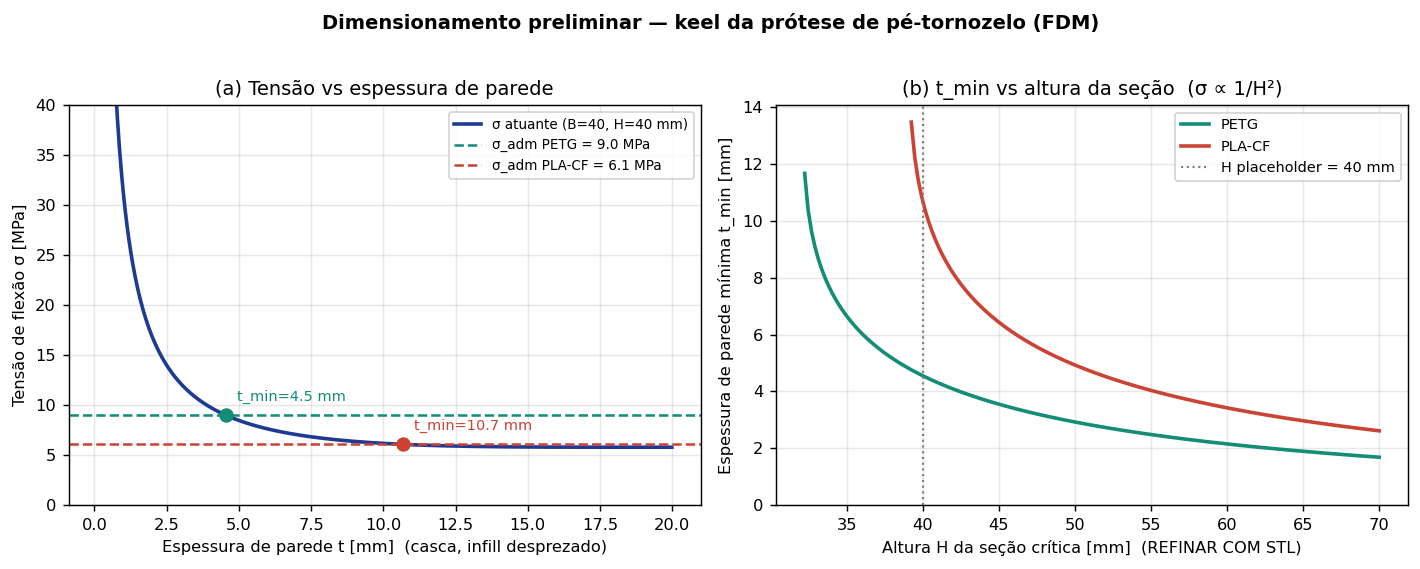
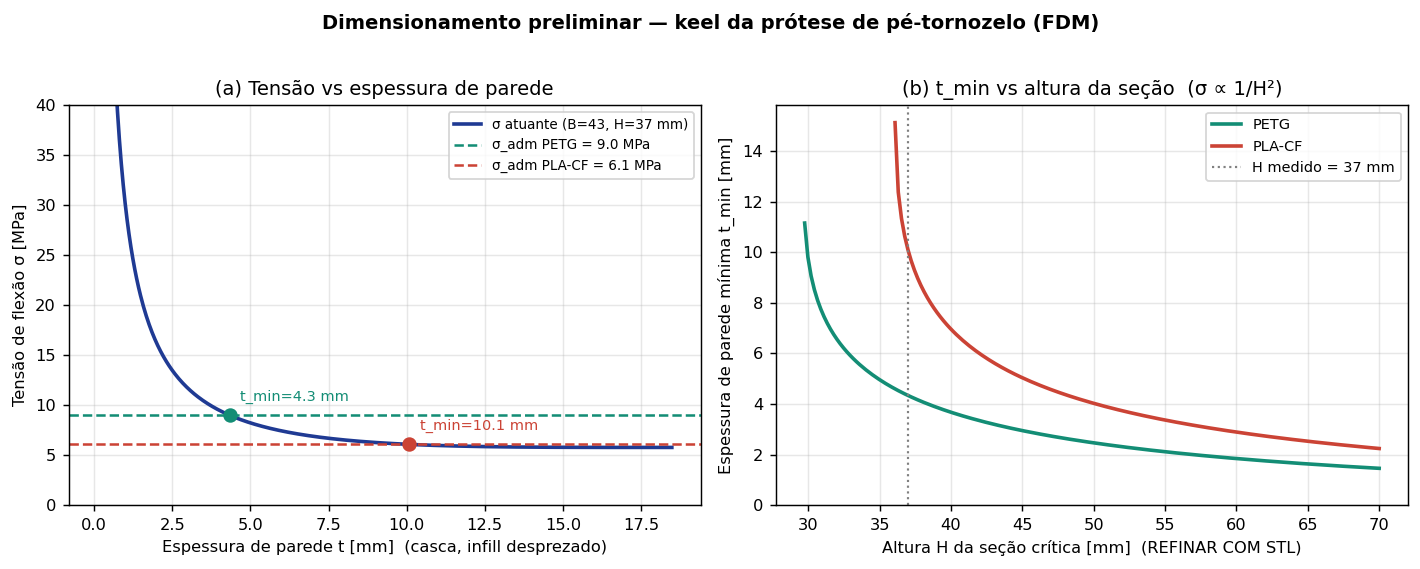
protese-tornozelo: trava design-base A (#293133), versiona STLs e re-roda dimensionamento com geometria medida
- Decisao A (Make3D Printables #293133) registrada em README, ROADMAP, decisao_design_base e VOTACAO
- STLs de A versionados em cad/A_make3d_293133/ + PDF em refs/
- dimensionamento.py: geometria medida no InnerFoot.stl (B=43, H=37, L=55) substitui placeholder; SCALE explicito
- RELATORIO 5.3 atualizado: PETG t_parede ~4,3mm, FS 2,5

diff --git a/testes/dimensionamento.py b/testes/dimensionamento.py
@@ -80,10 +80,22 @@ P          = BW_KG * G * GRF_FACTOR          # carga de projeto [N]  ≈ 1030 N
 FS_BASE  = 2.5        # base (faixa de projeto 2–3)
 FS_RANGE = (2.0, 3.0)
 
-# --- Geometria da seção crítica do keel  [PLACEHOLDER — REFINAR COM STL] ----
-B = 40.0   # largura da seção [mm]                 (REFINAR COM STL)
-H = 40.0   # altura da seção na região crítica [mm](REFINAR COM STL)
-L = 60.0   # braço de momento heel-strike → seção crítica [mm] (REFINAR COM STL)
+# --- Geometria da seção crítica do keel  [MEDIDO no STL — design-base A] -----
+# Design-base TRAVADO: A = Make3D "Prosthetic Foot Prototype" (Printables #293133).
+# Keel estrutural = InnerFoot.stl (cad/A_make3d_293133/). Medições (parse direto
+# da malha binária; varredura de seção a cada 10 mm ao longo do comprimento):
+#   bounding box nativa do keel:  L_total = 111.6 ,  Y = 46.0 ,  Z = 40.2  mm
+#   altura Z ~ 40 mm quase constante ao longo do pé; largura Y afina do
+#   meio-pé (~45) para o antepé (~15). Seção crítica de FLEXÃO sob heel-strike
+#   ~ região do tornozelo (X ~ 50 mm do calcanhar): B(Y) ~ 43 , H(Z) ~ 37 mm.
+# ESCALA: o pé do modelo (FootRubber = 210 mm) é menor que o alvo 26-27 cm.
+#   Escalar p/ alvo exige SCALE ~ 1.26 — e ESCALAR SÓ AJUDA (σ ∝ 1/SCALE²,
+#   pois L cresce ∝ s mas o módulo de seção ∝ s³). Logo SCALE=1.0 (nativo) é o
+#   caso CONSERVADOR/pior: se PETG passa aqui, passa também escalado ao alvo.
+SCALE = 1.0   # 1.0 = escala nativa do STL (pé ~21 cm, pior caso de tensão)
+B = 43.0 * SCALE   # largura da seção crítica [mm]  (medido no InnerFoot.stl)
+H = 37.0 * SCALE   # altura da seção crítica  [mm]  (medido no InnerFoot.stl)
+L = 55.0 * SCALE   # braço heel-strike → tornozelo [mm] (medido: ~50-55 mm)
 
 # --- Materiais candidatos (valores de IMPRESSÃO FDM, plano XY) --------------
 # uts_xy [MPa], E [MPa], k_z [-], comp [MPa] (compressão, p/ bearing do furo)
@@ -137,8 +149,8 @@ print(" DIMENSIONAMENTO ESTRUTURAL PRELIMINAR — prótese pé-tornozelo (FDM)")
 print("=" * 74)
 print(f"  Carga de projeto P      = {P:7.1f} N   "
       f"(= {GRF_FACTOR:.1f}×BW de {BW_KG:.0f} kg) [fonte 1]")
-print(f"  Momento fletor   M = P·L = {M:7.0f} N·mm  (L = {L:.0f} mm)  [PLACEHOLDER]")
-print(f"  Seção crítica (placeholder): B = {B:.0f} mm , H = {H:.0f} mm")
+print(f"  Momento fletor   M = P·L = {M:7.0f} N·mm  (L = {L:.0f} mm)  [MEDIDO, SCALE={SCALE}]")
+print(f"  Seção crítica (medida no InnerFoot.stl): B = {B:.0f} mm , H = {H:.0f} mm")
 print(f"  Fator de segurança base FS = {FS_BASE:.1f}  (faixa {FS_RANGE[0]:.0f}–{FS_RANGE[1]:.0f})")
 
 # Sanity-check: tensão na seção SÓLIDA equivalente vs FEA de referência [6]
@@ -237,7 +249,7 @@ for name in MATERIALS:
         tg = np.linspace(0.1, min(B, h) / 2.0 - 0.01, 400)
         tmins.append(t_min_for(sa, h, B, M, tg))
     ax2.plot(H_grid, tmins, color=colors[name], lw=2, label=name)
-ax2.axvline(H, color="gray", ls=":", lw=1.2, label=f"H placeholder = {H:.0f} mm")
+ax2.axvline(H, color="gray", ls=":", lw=1.2, label=f"H medido = {H:.0f} mm")
 ax2.set_xlabel("Altura H da seção crítica [mm]  (REFINAR COM STL)")
 ax2.set_ylabel("Espessura de parede mínima t_min [mm]")
 ax2.set_title("(b) t_min vs altura da seção  (σ ∝ 1/H²)")

diff --git a/RELATORIO.md b/RELATORIO.md
@@ -106,20 +106,23 @@ PLA reforçado com fibra de carbono picada parece mais rígido (E ≈ 3 GPa vs 1
 ### 5.3 Dimensionamento estrutural preliminar
 
 > Script reproduzível: `testes/dimensionamento.py` — gráficos em `testes/dimensionamento_flexao.png` e `testes/dimensionamento_materiais.png`.
-> ⚠️ Geometria da seção marcada `[PLACEHOLDER — REFINAR COM STL]` após escolha e download do design-base.
+> Geometria **medida** no STL do design-base A (Make3D #293133), keel = `InnerFoot.stl`.
 
-**Parâmetros de entrada:**
+**Parâmetros de entrada (medidos no STL de A):**
 - Carga de projeto: P = 1030 N (1,5 × 70 kg × 9,81 m/s²)
-- Momento fletor na seção crítica: M = P × L = 1030 × 60 = 61 800 N·mm (L = 60 mm — placeholder)
-- Seção crítica: B = 40 mm, H = 40 mm (placeholder)
+- Seção crítica medida (região do tornozelo, ~55 mm do calcanhar): B = 43 mm, H = 37 mm
+- Momento fletor na seção crítica: M = P × L = 1030 × 55 ≈ 56 700 N·mm (L = 55 mm medido)
 - Modelo: viga em flexão, seção retangular oca (casca); infill desprezado (conservador — a favor da segurança)
+- **Escala:** keel nativo do modelo (pé ~21 cm) é menor que o alvo 26–27 cm. Os cálculos usam a escala **nativa (pior caso)**; escalar ao alvo (×~1,26) só aumenta a margem (σ ∝ 1/escala², pois o módulo de seção cresce ∝ escala³ enquanto o braço cresce ∝ escala).
 
 **Resultados (FS = 2,5):**
 
 | Material | UTS_xy [MPa] | k_z [-] | σ_adm [MPa] | t_min casca [mm] |
 |---|---|---|---|---|
-| PETG | 45 | 0,50 | 9,0 | 4,6 |
-| PLA-CF | 38 | 0,40 | 6,1 | 10,7 |
+| PETG | 45 | 0,50 | 9,0 | 4,3 |
+| PLA-CF | 38 | 0,40 | 6,1 | 10,1 |
+
+Sanity-check: tensão na seção sólida equivalente = 5,8 MPa — mesma ordem do FEA de literatura (~15 MPa @150% PC [ResearchGate 318989655]), com folga.
 
 **Articulação — eixo M8 8.8 (junta dupla, 2 planos de cisalhamento):**
 - τ atuante = 14,1 MPa → FS real do pino ≈ **34×** — superdimensionado, não é o elo fraco

diff --git a/refs/decisao_design_base.md b/refs/decisao_design_base.md
@@ -94,3 +94,16 @@ Usar só se A e D forem inviáveis. Exige redesign do mecanismo de articulação
 ---
 
 > *Decisão registrada em 06/06/2026.*
+
+---
+
+## ✅ VEREDITO (08/06/2026)
+
+**Vencedor: A — Make3D / Printables #293133.** Decidido por votação do grupo.
+Razão: maior score (4,2), articulação single-axis direta e conector de pylon já
+integrado — menor trabalho de CAD no prazo apertado.
+
+**Status pós-download:**
+- STLs baixados e versionados em `cad/A_make3d_293133/` (InnerFoot, FootRubber, TopJoint, Insert, RubberCube) + PDF em `refs/A_make3d_293133/`.
+- Keel estrutural = `InnerFoot.stl`. Seção crítica medida (B=43, H=37, L=55 mm) → `dimensionamento.py` re-rodado: **PETG t_parede ≈ 4,3 mm** com FS 2,5.
+- ⚠ **Ressalvas a tratar no CAD:** (1) pacote de A **não traz STEP/F3D** — só STL; remix exige edição de malha (Blender) ou baixar o F3D no Printables. (2) **Escala:** pé do modelo ~21 cm < alvo 26–27 cm → escalar ~1,26× (favorável à estrutura).

diff --git a/ROADMAP.md b/ROADMAP.md
@@ -188,8 +188,8 @@ Decisão design-base (06/06)
 | Fase | Status | Observação |
 |------|--------|------------|
 | Fundação técnica (biomecânica, requisitos, dimensionamento) | ✅ Concluído | MINERVA - Missão 1 |
-| Decisão design-base | ⏳ Pendente | Matriz pronta - aguarda veredito |
-| Download CAD | ⏳ Pendente | Depende da decisão acima |
-| CAD | ⏳ Pendente | Prazo real: 13/06 |
+| Decisão design-base | ✅ Concluído | **A - Make3D #293133** (voto do grupo, 08/06) |
+| Download CAD | ✅ Concluído | STLs em `cad/A_make3d_293133/`; dimensionamento re-rodado com geometria medida |
+| CAD | ⏳ Pendente | Prazo real: 13/06. ⚠ pacote de A só tem STL (sem STEP/F3D) - remix por edição de malha |
 | Envio impressão externa | ⏳ Pendente | Confirmar fornecedor |
 | Montagem / Validação / Relatório / Slides | ⏳ Pendente | - |

diff --git a/refs/VOTACAO_DESIGN.md b/refs/VOTACAO_DESIGN.md
@@ -181,3 +181,9 @@ Responder com:
 
 > Recomendação técnica: **A como base principal** (score 4,2, single-axis direto, CAD editável)
 > com elementos de D se o CAD for editável (material nativo PETG+TPU sem troca).
+
+---
+
+## ✅ RESULTADO DA VOTAÇÃO (08/06/2026)
+
+**Voto do grupo: A — Make3D / Printables #293133.** Base travada; download e dimensionamento concluídos. Detalhes e ressalvas (sem STEP no pacote; escala ao pé 26–27 cm) em `decisao_design_base.md`.

diff --git a/README.md b/README.md
@@ -15,6 +15,7 @@
 | Eixo | Decisão | Razão |
 |---|---|---|
 | Origem do design | **Remixar open-source** | Prazo de 16 dias; partir de base comprovada e justificar mudanças é mais defensável que do zero |
+| **Design-base** | **A — Make3D "Prosthetic Foot Prototype" (Printables #293133)** | Votado pelo grupo em 08/06; maior score (4,2/5), single-axis direto, conector de pylon integrado. Arquivos em `cad/A_make3d_293133/` |
 | Alvo dimensional | **Genérico adulto padrão** | Sem dependência de medir paciente; protótipo demonstrativo |
 | Articulação | **Single-axis (dorsi/plantarflexão)** | Mais simples de modelar e imprimir; clássico e suficiente para "funcional" |
 | Régua de avaliação | **Briefing livre → régua proposta abaixo** | Não há enunciado escrito do professor |